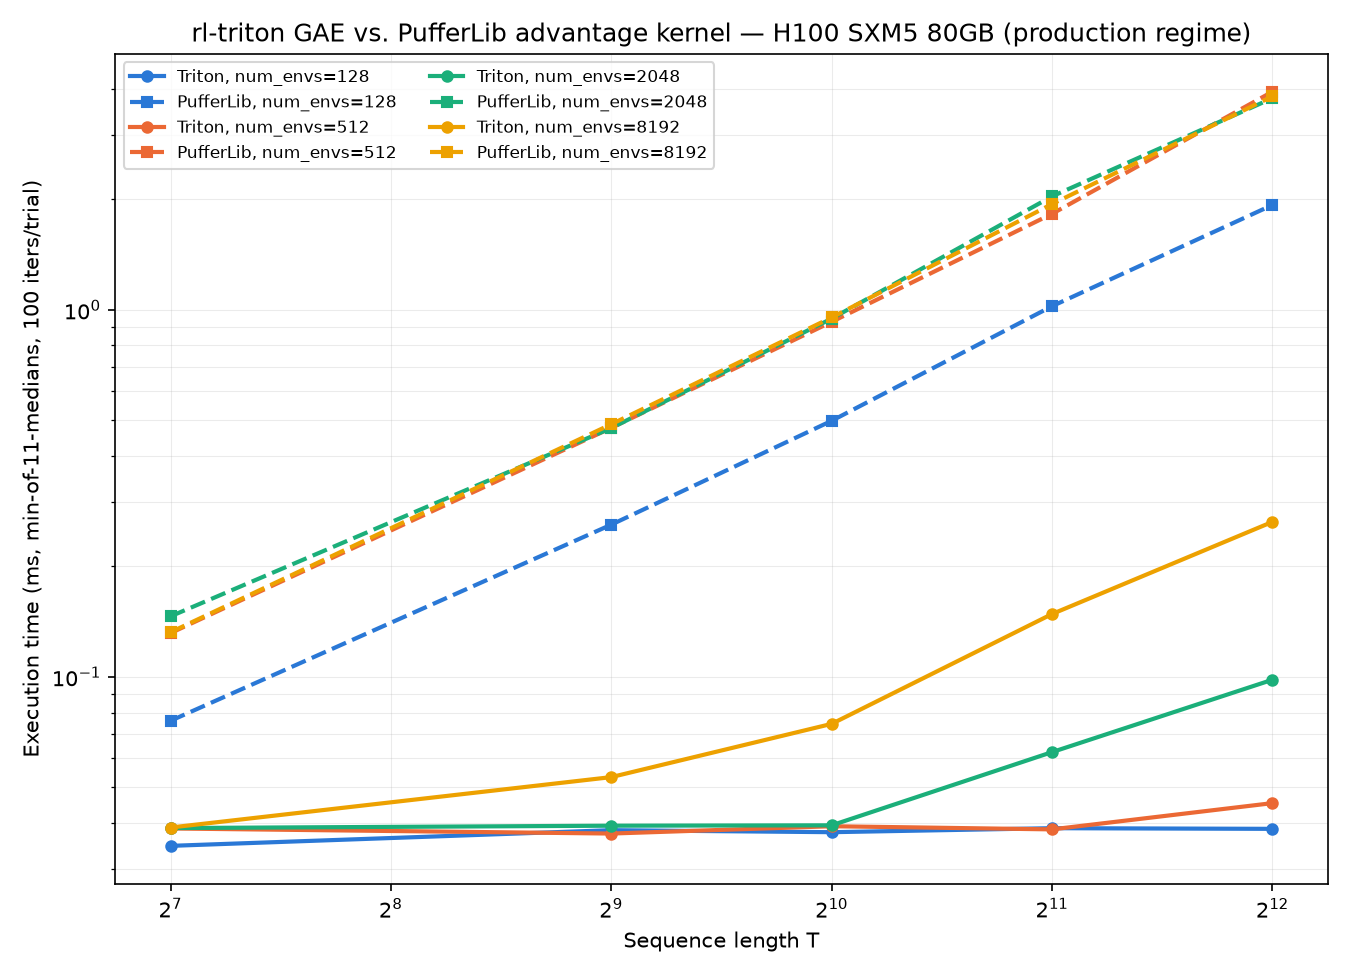
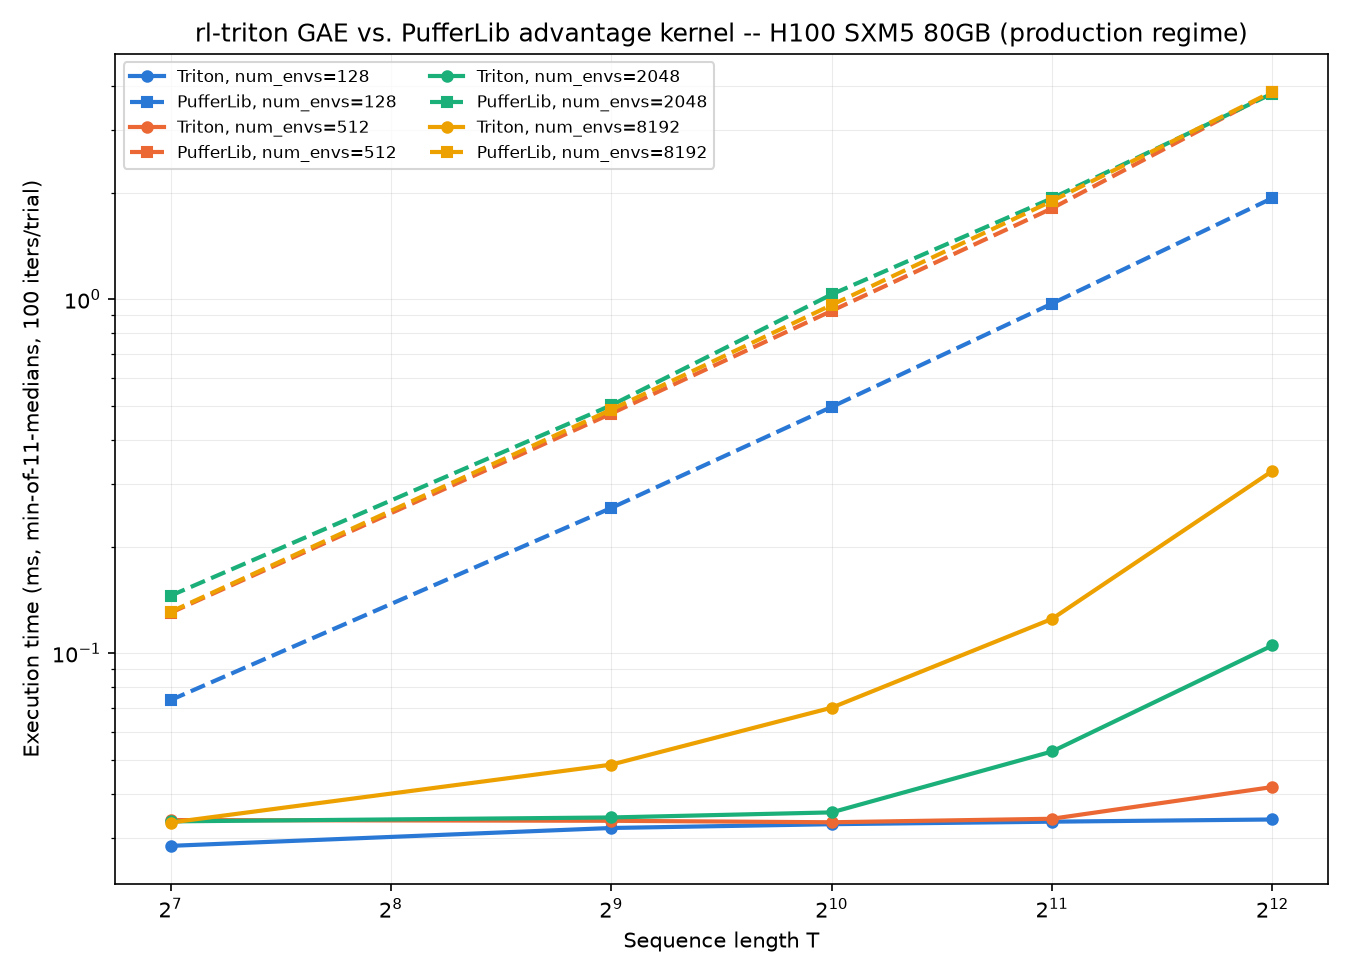
New Pufferlib crossover run for v0.1.2

diff --git a/gae_vs_pufferlib-2026-08-05.md b/gae_vs_pufferlib-2026-08-05.md
@@ -1,0 +1,70 @@
+# rl-triton GAE vs. PufferLib advantage kernel -- 2026-08-05
+
+ONE-OFF deep-dive study (equivalence proof, launch counts, bandwidth, crossover plots) -- not part of the release cycle, not regenerated automatically. See benchmarks/README.md for how this differs from compare_pufferlib.py's official, pip-only comparison (benchmarks/pufferlib.md).
+
+GPU: NVIDIA H100 80GB HBM3 · torch 2.4.1+cu124 (cuda 12.4) · triton 3.0.0 · PufferLib source: vendored pufferlib==3.0.0 pufferlib.cpp/pufferlib.cu, JIT-compiled
+dtype float32 · gamma=0.99 · lambda=0.95 · termination_prob=0.05
+
+Equivalence gate passed (see console output) -- both kernels verified to compute the same recurrence on the overlapping regime before any timing number below is trusted.
+
+## Production regime
+
+seq_len in [128, 512, 1024, 2048, 4096], num_envs in [128, 512, 2048, 8192].
+
+| num_envs | seq_len | triton (ms) | puffer (ms) | speedup | dev speedup | triton amort (ms) | puffer amort (ms) | triton GB/s (%peak) | puffer GB/s (%peak) | triton dev (us) | puffer dev (us) | triton launches | puffer launches |
+|---|---|---|---|---|---|---|---|---|---|---|---|---|---|
+| 128 | 128 | 0.0285 | 0.0737 | 2.58x | 48.15x | 0.0181 | 0.0663 | 9.2 (0.27%) | 4.4 (0.13%) | 1.31 | 63.24 | 1.0 | 2.0 |
+| 128 | 512 | 0.0321 | 0.2571 | 8.02x | 152.00x | 0.0201 | 0.2487 | 32.7 (0.98%) | 5.1 (0.15%) | 1.60 | 242.95 | 1.0 | 2.0 |
+| 128 | 1024 | 0.0329 | 0.4959 | 15.09x | 248.85x | 0.0207 | 0.4853 | 63.8 (1.90%) | 5.3 (0.16%) | 1.93 | 480.58 | 1.0 | 2.0 |
+| 128 | 2048 | 0.0334 | 0.9713 | 29.07x | 332.50x | 0.0204 | 0.9667 | 125.5 (3.75%) | 5.4 (0.16%) | 2.90 | 962.93 | 1.0 | 2.0 |
+| 128 | 4096 | 0.0339 | 1.9295 | 56.94x | 435.38x | 0.0209 | 1.9375 | 247.5 (7.39%) | 5.4 (0.16%) | 4.40 | 1913.57 | 1.0 | 2.0 |
+| 512 | 128 | 0.0338 | 0.1300 | 3.85x | 72.56x | 0.0209 | 0.1174 | 31.1 (0.93%) | 10.1 (0.30%) | 1.58 | 114.46 | 1.0 | 2.0 |
+| 512 | 512 | 0.0336 | 0.4750 | 14.14x | 205.38x | 0.0208 | 0.4623 | 124.8 (3.73%) | 11.0 (0.33%) | 2.23 | 457.43 | 1.0 | 2.0 |
+| 512 | 1024 | 0.0333 | 0.9265 | 27.84x | 274.27x | 0.0209 | 0.9122 | 252.1 (7.52%) | 11.3 (0.34%) | 3.32 | 911.93 | 1.0 | 2.0 |
+| 512 | 2048 | 0.0340 | 1.8046 | 53.00x | 258.29x | 0.0206 | 1.7969 | 492.8 (14.71%) | 11.6 (0.35%) | 6.95 | 1794.82 | 1.0 | 2.0 |
+| 512 | 4096 | 0.0419 | 3.8490 | 91.96x | 241.32x | 0.0208 | 3.8397 | 801.7 (23.93%) | 10.9 (0.33%) | 15.90 | 3837.05 | 1.0 | 2.0 |
+| 2048 | 128 | 0.0335 | 0.1452 | 4.34x | 49.79x | 0.0286 | 0.1332 | 125.3 (3.74%) | 36.1 (1.08%) | 2.63 | 130.89 | 1.0 | 2.0 |
+| 2048 | 512 | 0.0343 | 0.5013 | 14.60x | 103.55x | 0.0213 | 0.4889 | 488.6 (14.59%) | 41.8 (1.25%) | 4.66 | 482.81 | 1.0 | 2.0 |
+| 2048 | 1024 | 0.0355 | 1.0313 | 29.06x | 109.46x | 0.0206 | 1.0218 | 945.5 (28.22%) | 40.7 (1.21%) | 9.31 | 1019.14 | 1.0 | 2.0 |
+| 2048 | 2048 | 0.0527 | 1.9273 | 36.55x | 68.20x | 0.0294 | 1.9195 | 1272.5 (37.99%) | 43.5 (1.30%) | 28.12 | 1917.77 | 1.0 | 2.0 |
+| 2048 | 4096 | 0.1051 | 3.8090 | 36.23x | 46.87x | 0.0813 | 3.8048 | 1276.8 (38.11%) | 44.0 (1.31%) | 81.32 | 3811.61 | 1.0 | 2.0 |
+| 8192 | 128 | 0.0332 | 0.1308 | 3.94x | 18.30x | 0.0204 | 0.1194 | 505.1 (15.08%) | 160.4 (4.79%) | 6.39 | 116.83 | 1.0 | 2.0 |
+| 8192 | 512 | 0.0484 | 0.4872 | 10.06x | 20.10x | 0.0255 | 0.4803 | 1386.1 (41.38%) | 172.2 (5.14%) | 23.73 | 476.91 | 1.0 | 2.0 |
+| 8192 | 1024 | 0.0701 | 0.9627 | 13.73x | 20.98x | 0.0473 | 0.9561 | 1914.3 (57.14%) | 174.3 (5.20%) | 45.43 | 953.27 | 1.0 | 2.0 |
+| 8192 | 2048 | 0.1249 | 1.8933 | 15.15x | 18.20x | 0.1008 | 1.8861 | 2148.7 (64.14%) | 177.2 (5.29%) | 103.43 | 1882.37 | 1.0 | 2.0 |
+| 8192 | 4096 | 0.3271 | 3.8537 | 11.78x | 12.68x | 0.3018 | 3.8483 | 1641.3 (48.99%) | 174.1 (5.20%) | 303.27 | 3846.07 | 1.0 | 2.0 |
+
+**Verdict:** Triton faster in 20/20 cells; PufferLib faster in 0/20 cells.
+
+![production regime crossover](gae_performance_crossover.png)
+
+## Massively-parallel-sim regime (short horizon, high env count)
+
+seq_len in [8, 16, 32, 64, 128], num_envs in [4096, 8192, 16384, 32768].
+
+| num_envs | seq_len | triton (ms) | puffer (ms) | speedup | dev speedup | triton amort (ms) | puffer amort (ms) | triton GB/s (%peak) | puffer GB/s (%peak) | triton dev (us) | puffer dev (us) | triton launches | puffer launches |
+|---|---|---|---|---|---|---|---|---|---|---|---|---|---|
+| 4096 | 8 | 0.0340 | 0.0220 | 0.65x | 1.04x | 0.0209 | 0.0137 | 15.4 (0.46%) | 29.8 (0.89%) | 3.59 | 3.72 | 1.0 | 2.0 |
+| 4096 | 16 | 0.0339 | 0.0240 | 0.71x | 2.58x | 0.0209 | 0.0136 | 30.9 (0.92%) | 54.7 (1.63%) | 3.60 | 9.30 | 1.0 | 2.0 |
+| 4096 | 32 | 0.0335 | 0.0442 | 1.32x | 8.15x | 0.0210 | 0.0317 | 62.7 (1.87%) | 59.3 (1.77%) | 3.62 | 29.48 | 1.0 | 2.0 |
+| 4096 | 64 | 0.0337 | 0.0737 | 2.19x | 15.66x | 0.0205 | 0.0615 | 124.4 (3.71%) | 71.1 (2.12%) | 3.75 | 58.75 | 1.0 | 2.0 |
+| 4096 | 128 | 0.0339 | 0.1393 | 4.11x | 31.71x | 0.0207 | 0.1273 | 247.5 (7.39%) | 75.3 (2.25%) | 3.91 | 123.96 | 1.0 | 2.0 |
+| 8192 | 8 | 0.0342 | 0.0218 | 0.64x | 0.64x | 0.0208 | 0.0135 | 30.7 (0.92%) | 60.1 (1.80%) | 6.04 | 3.86 | 1.0 | 2.0 |
+| 8192 | 16 | 0.0333 | 0.0241 | 0.72x | 1.55x | 0.0207 | 0.0135 | 63.0 (1.88%) | 108.9 (3.25%) | 6.05 | 9.40 | 1.0 | 2.0 |
+| 8192 | 32 | 0.0336 | 0.0442 | 1.32x | 4.89x | 0.0207 | 0.0319 | 124.9 (3.73%) | 118.6 (3.54%) | 6.08 | 29.74 | 1.0 | 2.0 |
+| 8192 | 64 | 0.0333 | 0.0731 | 2.19x | 9.46x | 0.0205 | 0.0611 | 251.6 (7.51%) | 143.4 (4.28%) | 6.22 | 58.78 | 1.0 | 2.0 |
+| 8192 | 128 | 0.0336 | 0.1313 | 3.91x | 18.34x | 0.0206 | 0.1197 | 499.3 (14.91%) | 159.7 (4.77%) | 6.39 | 117.14 | 1.0 | 2.0 |
+| 16384 | 8 | 0.0363 | 0.0218 | 0.60x | 0.37x | 0.0208 | 0.0135 | 57.7 (1.72%) | 120.3 (3.59%) | 10.96 | 4.04 | 1.0 | 2.0 |
+| 16384 | 16 | 0.0363 | 0.0242 | 0.67x | 0.87x | 0.0206 | 0.0136 | 115.5 (3.45%) | 217.0 (6.48%) | 10.98 | 9.60 | 1.0 | 2.0 |
+| 16384 | 32 | 0.0367 | 0.0444 | 1.21x | 2.73x | 0.0210 | 0.0324 | 228.7 (6.83%) | 235.9 (7.04%) | 11.00 | 30.09 | 1.0 | 2.0 |
+| 16384 | 64 | 0.0367 | 0.0733 | 2.00x | 5.33x | 0.0207 | 0.0617 | 457.5 (13.66%) | 286.1 (8.54%) | 11.14 | 59.42 | 1.0 | 2.0 |
+| 16384 | 128 | 0.0368 | 0.1340 | 3.64x | 10.47x | 0.0208 | 0.1248 | 912.6 (27.24%) | 313.0 (9.34%) | 11.58 | 121.28 | 1.0 | 2.0 |
+| 32768 | 8 | 0.0459 | 0.0226 | 0.49x | 0.25x | 0.0221 | 0.0137 | 91.4 (2.73%) | 232.4 (6.94%) | 20.81 | 5.22 | 1.0 | 2.0 |
+| 32768 | 16 | 0.0462 | 0.0244 | 0.53x | 0.49x | 0.0221 | 0.0136 | 181.7 (5.42%) | 429.5 (12.82%) | 20.83 | 10.19 | 1.0 | 2.0 |
+| 32768 | 32 | 0.0464 | 0.0449 | 0.97x | 1.49x | 0.0222 | 0.0333 | 361.6 (10.79%) | 467.4 (13.95%) | 20.85 | 31.09 | 1.0 | 2.0 |
+| 32768 | 64 | 0.0467 | 0.0763 | 1.63x | 3.00x | 0.0225 | 0.0670 | 718.7 (21.45%) | 550.0 (16.42%) | 21.18 | 63.56 | 1.0 | 2.0 |
+| 32768 | 128 | 0.0480 | 0.1412 | 2.94x | 5.69x | 0.0247 | 0.1342 | 1397.2 (41.71%) | 594.2 (17.74%) | 22.88 | 130.07 | 1.0 | 2.0 |
+
+**Verdict:** Triton faster (wall-clock) in 11/20 cells; PufferLib faster in 9/20 cells. Triton faster (device-only) in 15/20 cells; PufferLib faster (device-only) in 5/20 cells.
+
+![short-horizon regime crossover](gae_performance_short_horizon.png)
